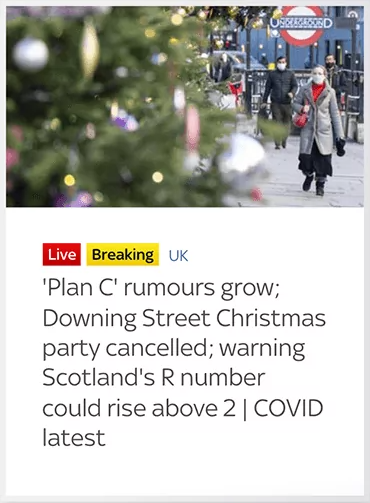
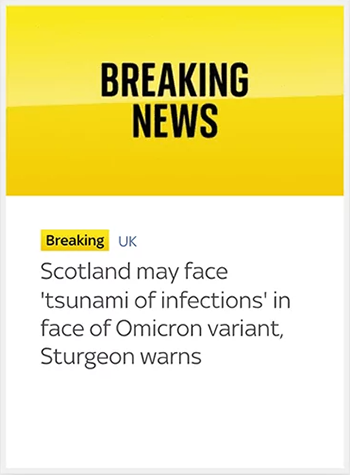
changed cards three and four

diff --git a/README.md b/README.md
@@ -44,11 +44,11 @@ Add the following styles to the article element with the class name card-two:
  ![Image of card two](images/card-two.png)
 
 ### Card 3:
-Recreate the card below. Try to use similar fonts (Google Fonts), colours, image, alignment and spacing. You can source an image from a website such as https://www.unsplash.com or https://www.pexels.com (any image of a lion or wolf with work). Be as exact as you can with your styling, pixel-perfect if possible.<br />
+Recreate the card below. Try to use similar fonts (Google Fonts), colours, image, alignment and spacing. You can source an image from a website such as https://www.unsplash.com or https://www.pexels.com (any image of a landscape will work). Be as exact as you can with your styling, pixel-perfect if possible.<br />
 ![Image of card three](images/card-three.png)
 
 ### Card 4:
-Recreate the card below. Try to use similar fonts (Google Fonts), colours, image, alignment and spacing. You can source an image from a website such as https://www.unsplash.com or https://www.pexels.com. Be as exact as you can with your styling, pixel-perfect if possible. Note that the small text above the headline are not buttons.<br />
+Recreate the card below. Try to use similar fonts (Google Fonts), colours, alignment and spacing. Use the file called yellow-background.png in the images folder. Be as exact as you can with your styling, pixel-perfect if possible. Note that the small text above the headline is not a button.<br />
 ![Image of card four](images/card-four.png)
 
 ### Format, organize and add comments 
